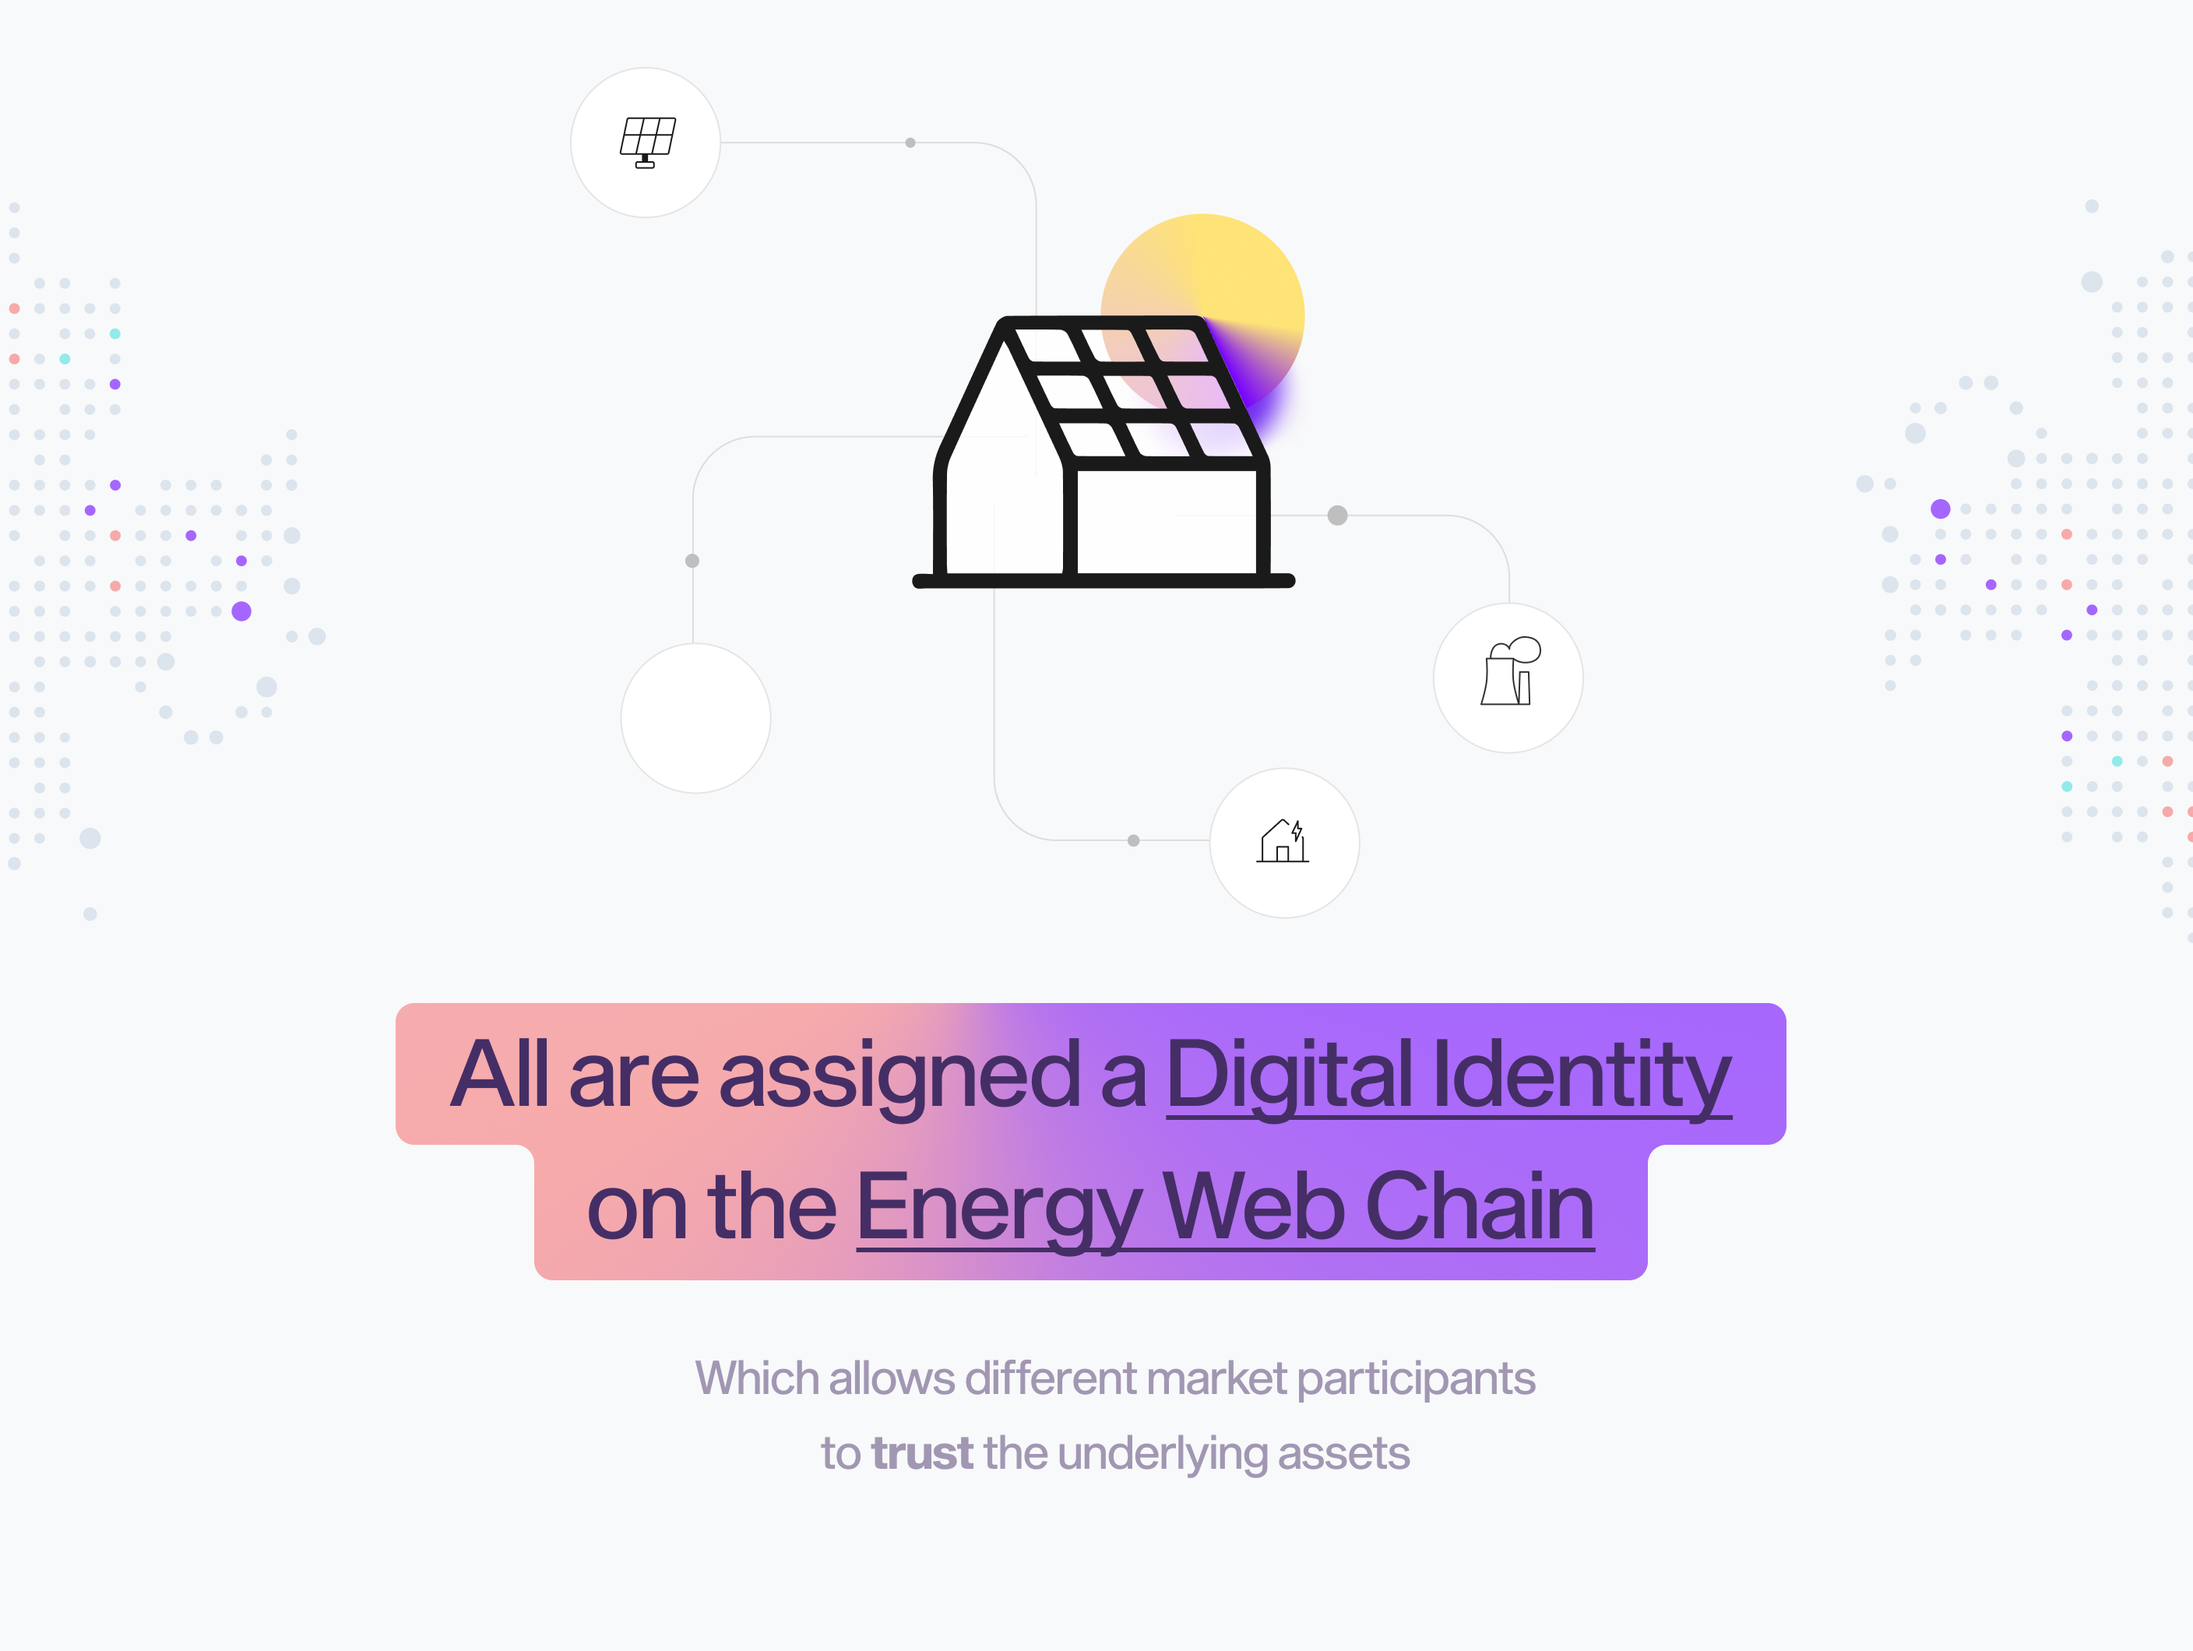
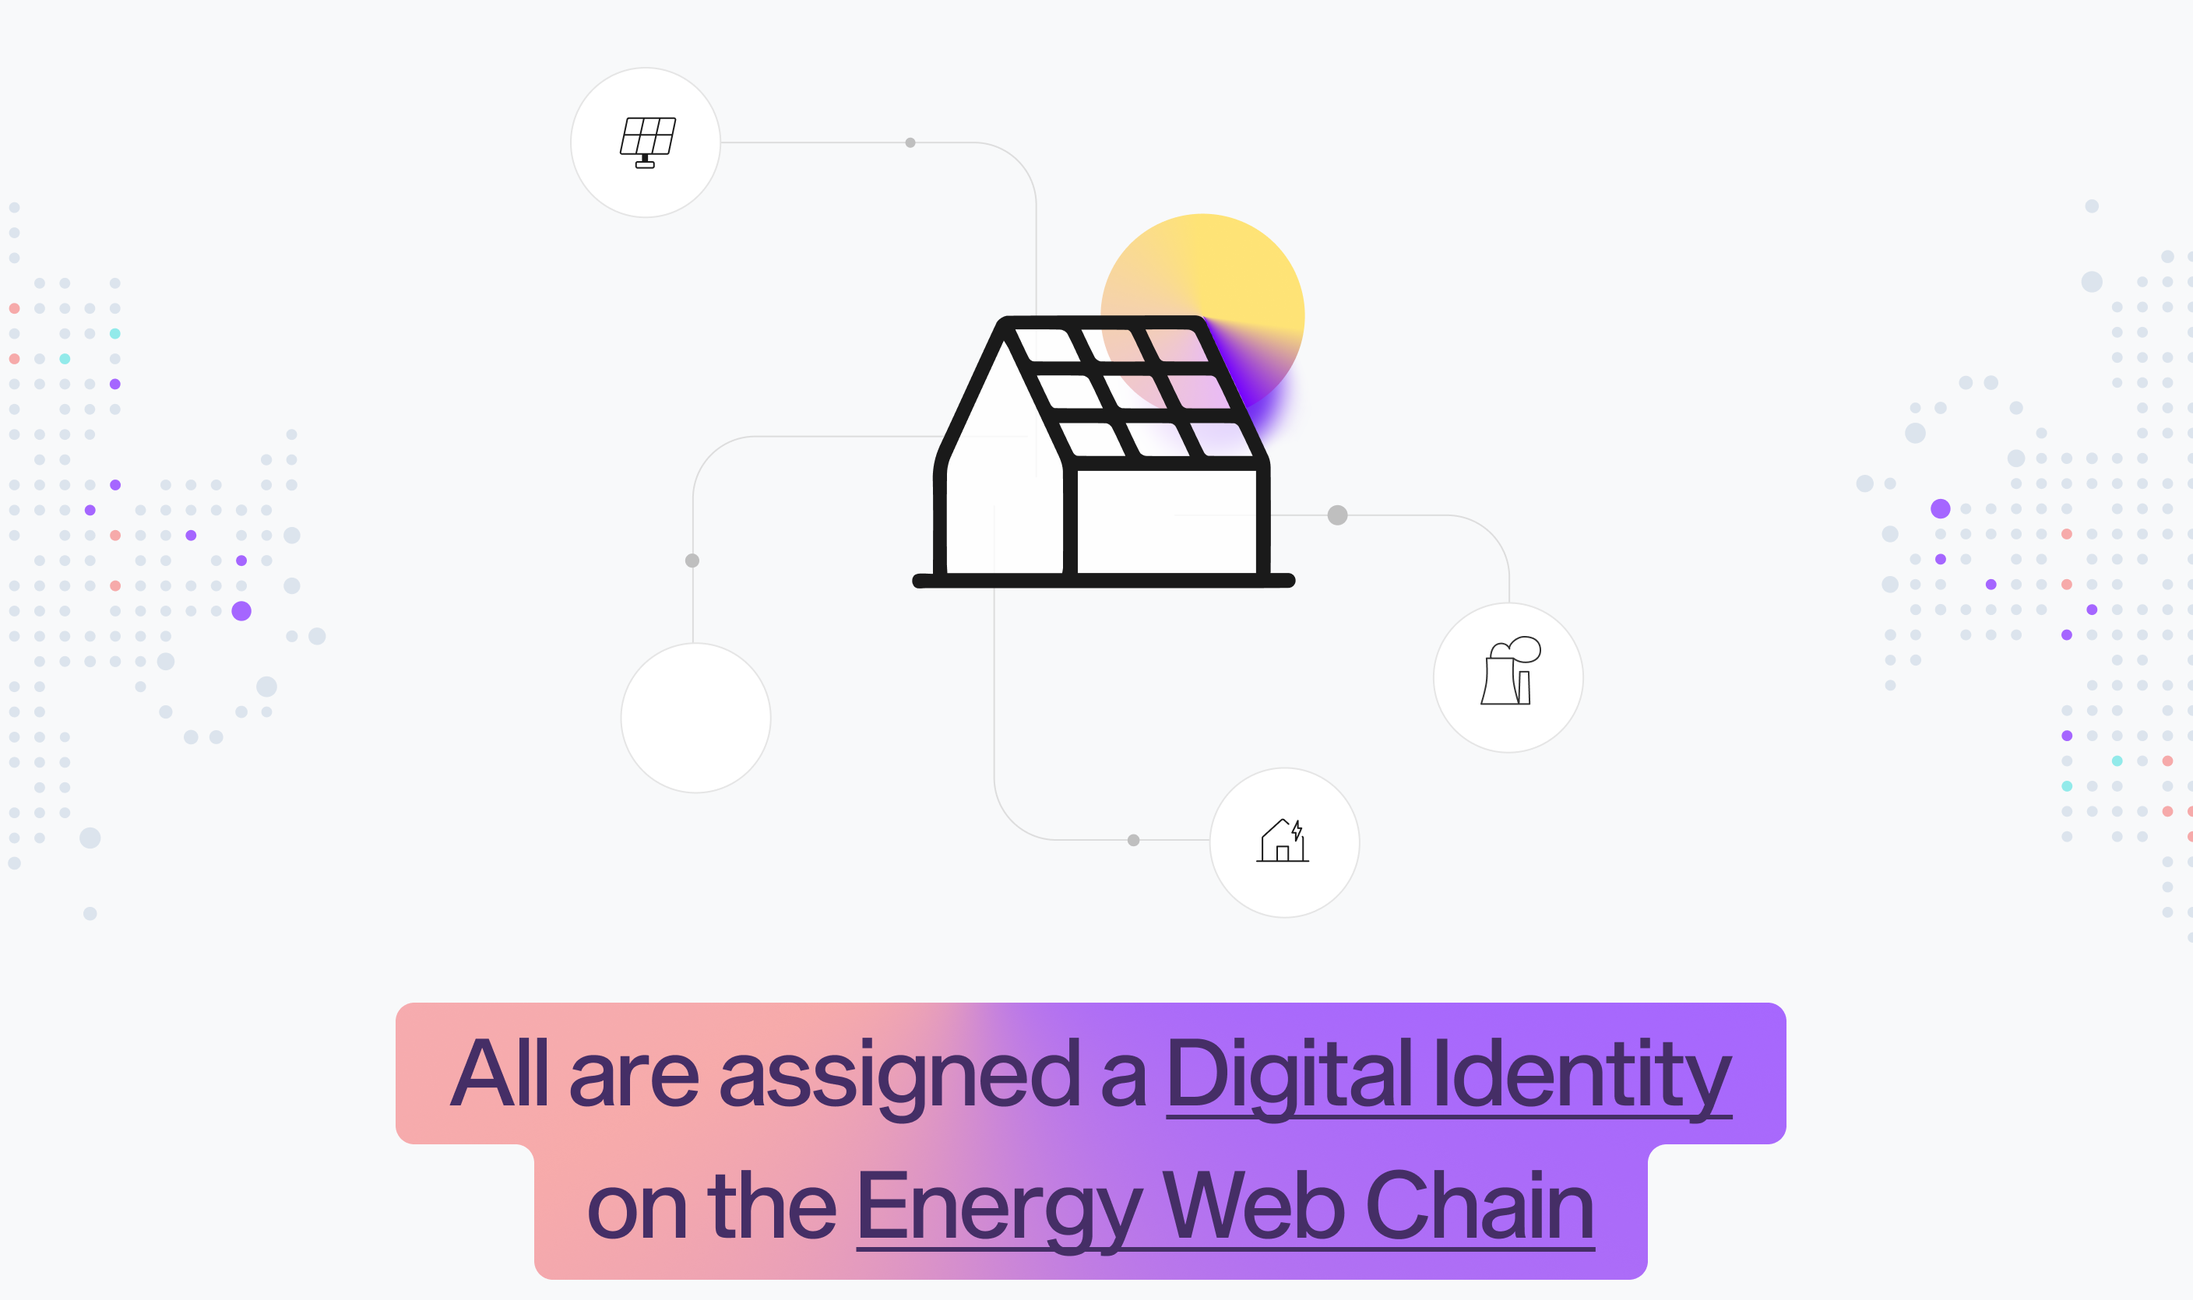
modify texts

diff --git a/src/styles/pages/_home.scss b/src/styles/pages/_home.scss
@@ -372,6 +372,14 @@
   u {
     color: $color-darkpurple;
   }
+
+  small {
+    @include font-body($size: $font-size-subheading2, $weight: $font-weight-body);
+    text-transform: none !important;
+    @include media('<=phone') {
+      @include font-subheading2($size: 0.8rem);
+    }
+  }
 }
 
 .icon-text {
@@ -612,6 +620,37 @@
   }
 }
 
+.bg-purple-3 {
+  background: #452E66;
+  height: 592px;
+  @include media('<=phone') {
+    height: 850px;
+  }
+}
+
+.img-container-4 {
+  position: absolute;
+  width: 50%;
+  bottom: -442px;
+  z-index: 9;
+}
+
+.pink-bg-container {
+  width: 50%;
+  margin: 0 auto;
+  position: absolute;
+  left: 0;
+  right: 0;
+  top: 234px;
+
+  @include media('<=phone') {
+    top: 40px;
+  }
+}
+
+.bg-gray {
+  background: #F8F9FA;
+}
 
 .btn-primary {
   display: flex;
